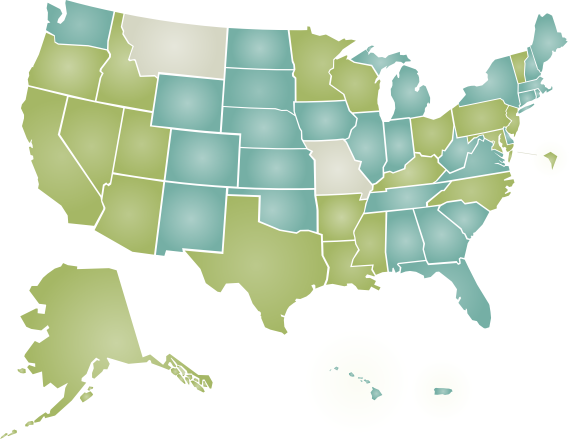
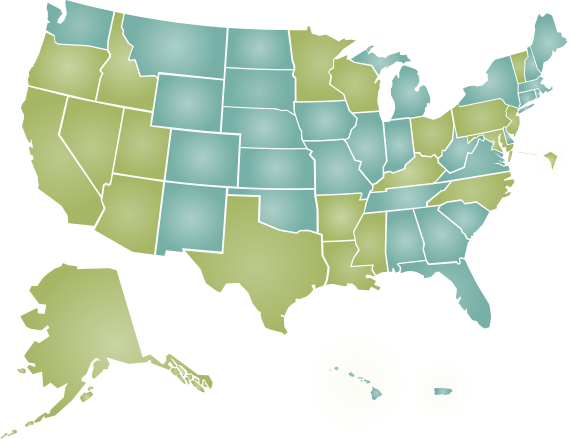
that's 50

Changed region(s): [[0.2088, 0.0296, 0.4175, 0.1777], [0.5368, 0.2961, 0.6561, 0.4738]]

diff --git a/templates/status.html b/templates/status.html
@@ -5,7 +5,7 @@
 {% block content %}
 <h2>Project Status</h2>
 
-<p> As of February 27th, 2012 we have data for 48 states, the District of Columbia, and Puerto Rico. </p>
+<p> As of March 12th, 2012 we have data for all 50 states, the District of Columbia, and Puerto Rico. </p>
 
 <p> States are denoted as either "ready" or "experimental" depending on how
 reliable the source data is and how thoroughly we've vetted and cleaned up the
@@ -38,18 +38,9 @@ and Wisconsin.</p>
 <h4> Experimental States </h4>
 <p> Experimental states (in blue) are those that we support but have not yet promoted to ready
 status.  Alabama, Colorado, Connecticut, Delaware, Florida, Georgia, Hawaii, Illinois, Indiana, Iowa, Kansas, Maine,
-Massachusetts, Michigan, Nebraska, New Hampshire, New Mexico, New York, North Dakota, Oklahoma, Puerto Rico,
+Massachusetts, Michigan, Missouri, Montana, Nebraska, New Hampshire, New Mexico, New York, North Dakota, Oklahoma, Puerto Rico,
 Rhode Island, South Carolina, South Dakota, Tennessee, Virginia, Washington, West Virginia, and Wyoming fall in this category.
 </p>
-
-<h4> Unsupported States </h4>
-<p> The remaining states (gray on the map)  are not yet in our API.
-If you are interested in contributing visit the
-<a href="/contributing/">Contributor's Guide</a> that will guide you through
-obtaining the source and
-<a href="http://groups.google.com/group/fifty-state-project">speaking with
-project developers</a> that can help you determine what work needs to be done
-for the state of your choosing.</p>
 
 <a name="state-specific"><h3> State-specific Issues </h3></a>
 
@@ -101,6 +92,12 @@ for the state of your choosing.</p>
 <ul>
     <li>Minnesota does not provide legislator roll calls for votes taken in the
     Senate so we are lacking detailed votes for the MN Senate.</li>
+</ul>
+
+<a name="MO"><h4>Missouri</h4></a>
+<ul>
+    <li>Missouri does not provide legislator roll calls in a format that we're able
+    to collect.</li>
 </ul>
 
 <a name="NE"><h4>Nebraska</h4></a>

diff --git a/templates/index.html b/templates/index.html
@@ -25,7 +25,7 @@
                     <li><span class="orange">&#42;</span> Schedules <span class="orange">&#42;</span></li>
                 </ul>
             </div>
-            
+
             <div class="clear">
             </div>
         </header>
@@ -36,7 +36,7 @@
                         Open States Project Status
                     </h3>
                     <p>
-                        We currently have data available for 48 states, Washington DC, and Puerto Rico.  If your state isn't available yet learn how to <a href="/contributing/">contribute.</a>
+                    We currently have data available for all 50 states, Washington DC, and Puerto Rico. <br /> <a href="/api/">Use our Data</a> or <a href="/contributing/">Help Us Improve It</a>!
                     </p>
                 </div>
                 <div class="map-key">
@@ -51,7 +51,7 @@
                 </div>
                 <div class="clear">
                 </div>
-                <img src="{{STATIC_URL}}images/openstatesmap.png?feb24" id="map" alt="Open States Map" />
+                <img src="{{STATIC_URL}}images/openstatesmap.png?50" id="map" alt="Open States Map" />
             </div>
             <div class="main-right">
                 <div class="use">
